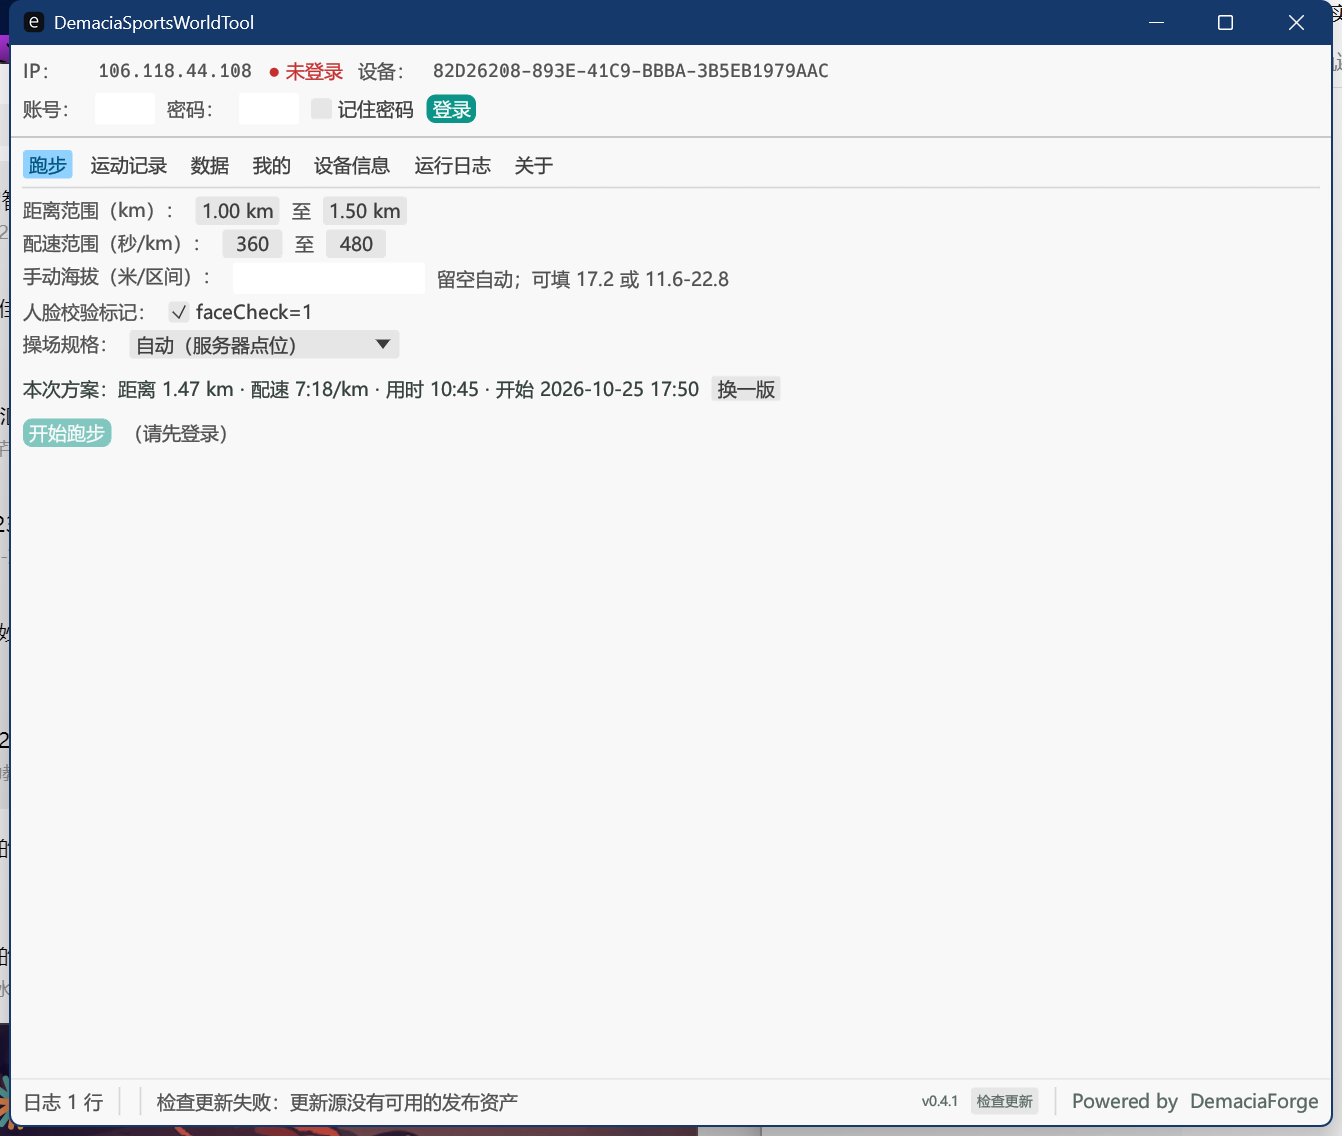
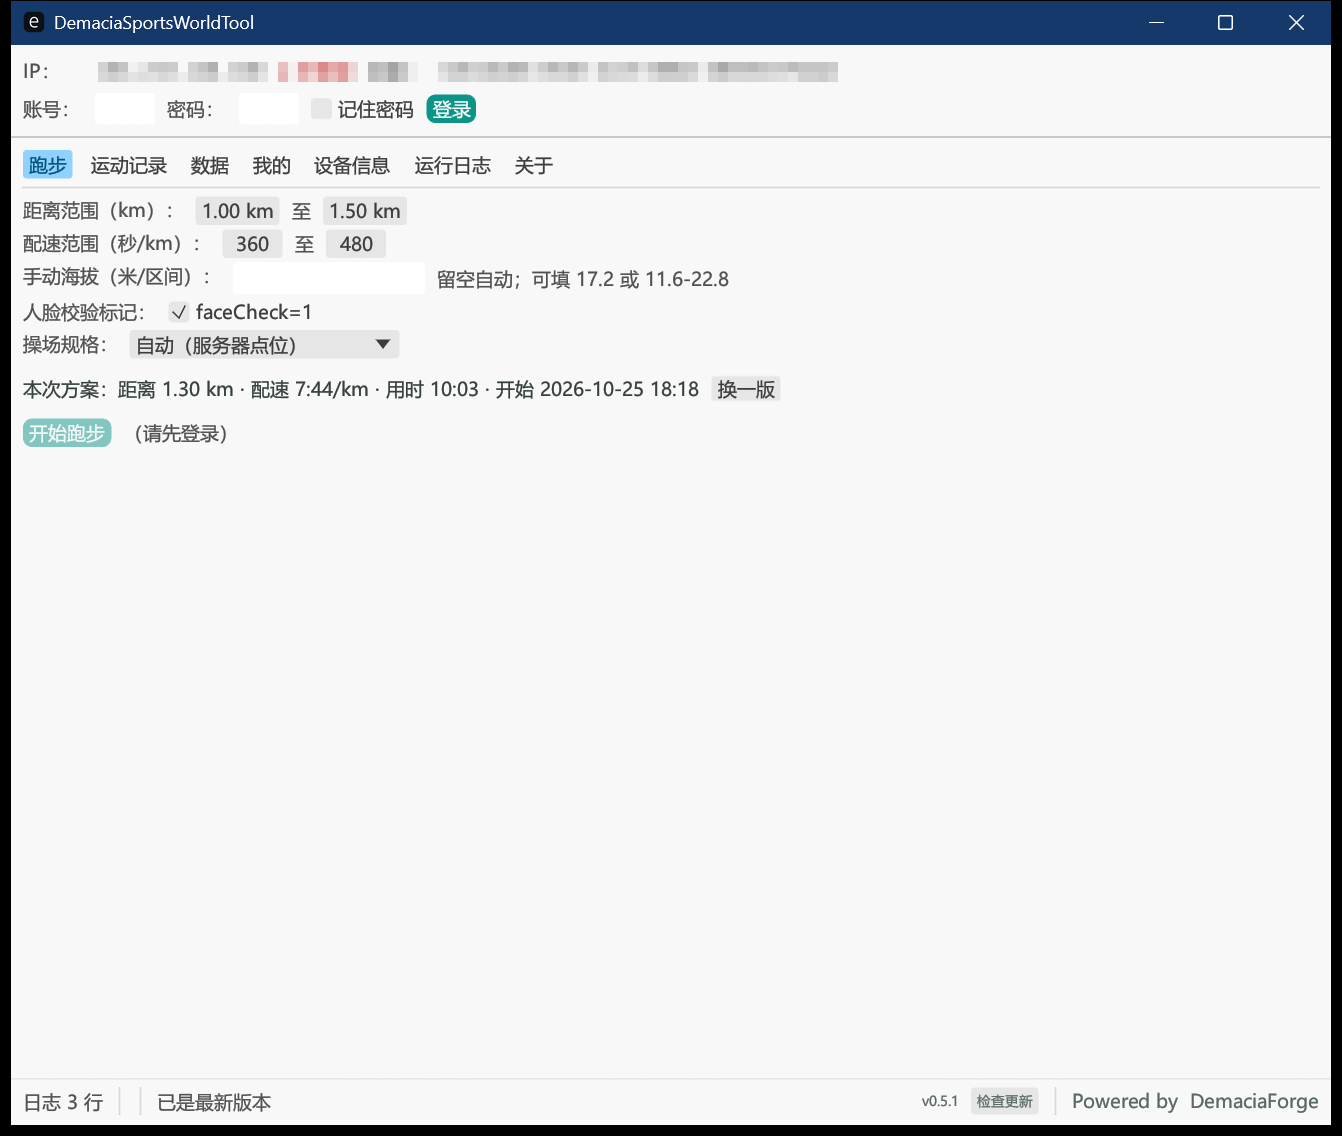
docs: 补「检查更新」章节，更新界面截图（已对 IP 与设备号打马赛克）
- 新增 `### 检查更新` 章节：按钮位置、三种启动检查模式、更新源为匿名请求
  （故仓库必须 public）、四个平台的资产名对照表、手动更新步骤、NSWT_UPDATE_REPO 调试口
- 「功能」里的自动更新条目加上指向该章节的锚点
- 重新截取界面截图：此时更新检查已通过，状态栏显示「已是最新版本」；
  顶栏的 IP 与设备 UUID 已做 10px 块马赛克

diff --git a/README.md b/README.md
@@ -51,7 +51,8 @@
   - 路线颜色固定全绿色
 - **数据**：学期完成度、违规自查、排行榜（个人 / 班级 / 院系 × 日 / 月、室内榜、历史榜）
 - **登录**：人机验证本地自动通过，会话失效自动重登
-- **自动更新**：检查 / 下载 / 自替换并重启；启动检查模式可选（静默 / 询问 / 关闭）
+- **自动更新**：检查 / 下载 / 自替换并重启；启动检查模式可选（静默 / 询问 / 关闭）。
+  详见 [检查更新](#检查更新)
 
 界面共 7 个标签页：跑步 · 运动记录 · 数据 · 我的 · 设备信息 · 运行日志 · 关于。
 
@@ -117,6 +118,38 @@ demaciasportsworldtool help                      # 全部命令
 - 留空 → 自动海拔
 - 单个数字（如 `17.2`）→ 所有轨迹点使用固定海拔
 - 区间（如 `11.6-22.8`）→ 把生成的海拔曲线映射到该区间，保留相对起伏
+
+### 检查更新
+
+界面**最下方**有「检查更新」按钮，右侧显示当前版本号。检查结果直接显示在左下角状态栏
+（`已是最新版本` / `发现新版本 vX.Y.Z` / `检查更新失败…`）。
+
+**启动时**也可自动检查，`config.json` 的 `update_check` 有三种取值：
+
+| 值 | 行为 |
+|---|---|
+| `silent`（默认） | 静默检查，只有发现新版本才弹窗 |
+| `ask` | 每次启动询问 |
+| `off` | 完全不检查 |
+
+更新源是 `api.github.com/repos/DemaciaForge/DemaciaSportsWorldTool/releases/latest`，
+**匿名请求**，不携带账号令牌。因此本仓库必须保持 **public**，否则匿名读不到发布信息。
+
+各平台对应的发布资产名是固定的，改名会导致更新失败：
+
+| 平台 | 资产名 |
+|---|---|
+| Windows x86_64 | `DemaciaSportsWorldTool-win-x64.zip` |
+| macOS arm64 | `DemaciaSportsWorldTool-macos-arm64.tar.gz` |
+| Linux x86_64 | `DemaciaSportsWorldTool-linux-x64.tar.gz` |
+| Linux aarch64 | `DemaciaSportsWorldTool-linux-aarch64.tar.gz` |
+
+桌面端会从 zip 里找 `*.exe`（打包带 `target/` 路径也能识别），下载后自替换并重启。
+网络不通时可到 [Releases](https://github.com/DemaciaForge/DemaciaSportsWorldTool/releases)
+手动下载：退出程序，用新的 `demaciasportsworldtool.exe` 覆盖旧的，**保留**
+`config.json`、`identity.json`、`points_cache.json` 等数据文件。
+
+调试时可用环境变量 `NSWT_UPDATE_REPO` 临时指向别的仓库（如自己的测试 fork）。
 
 ### 青龙定时任务
 
